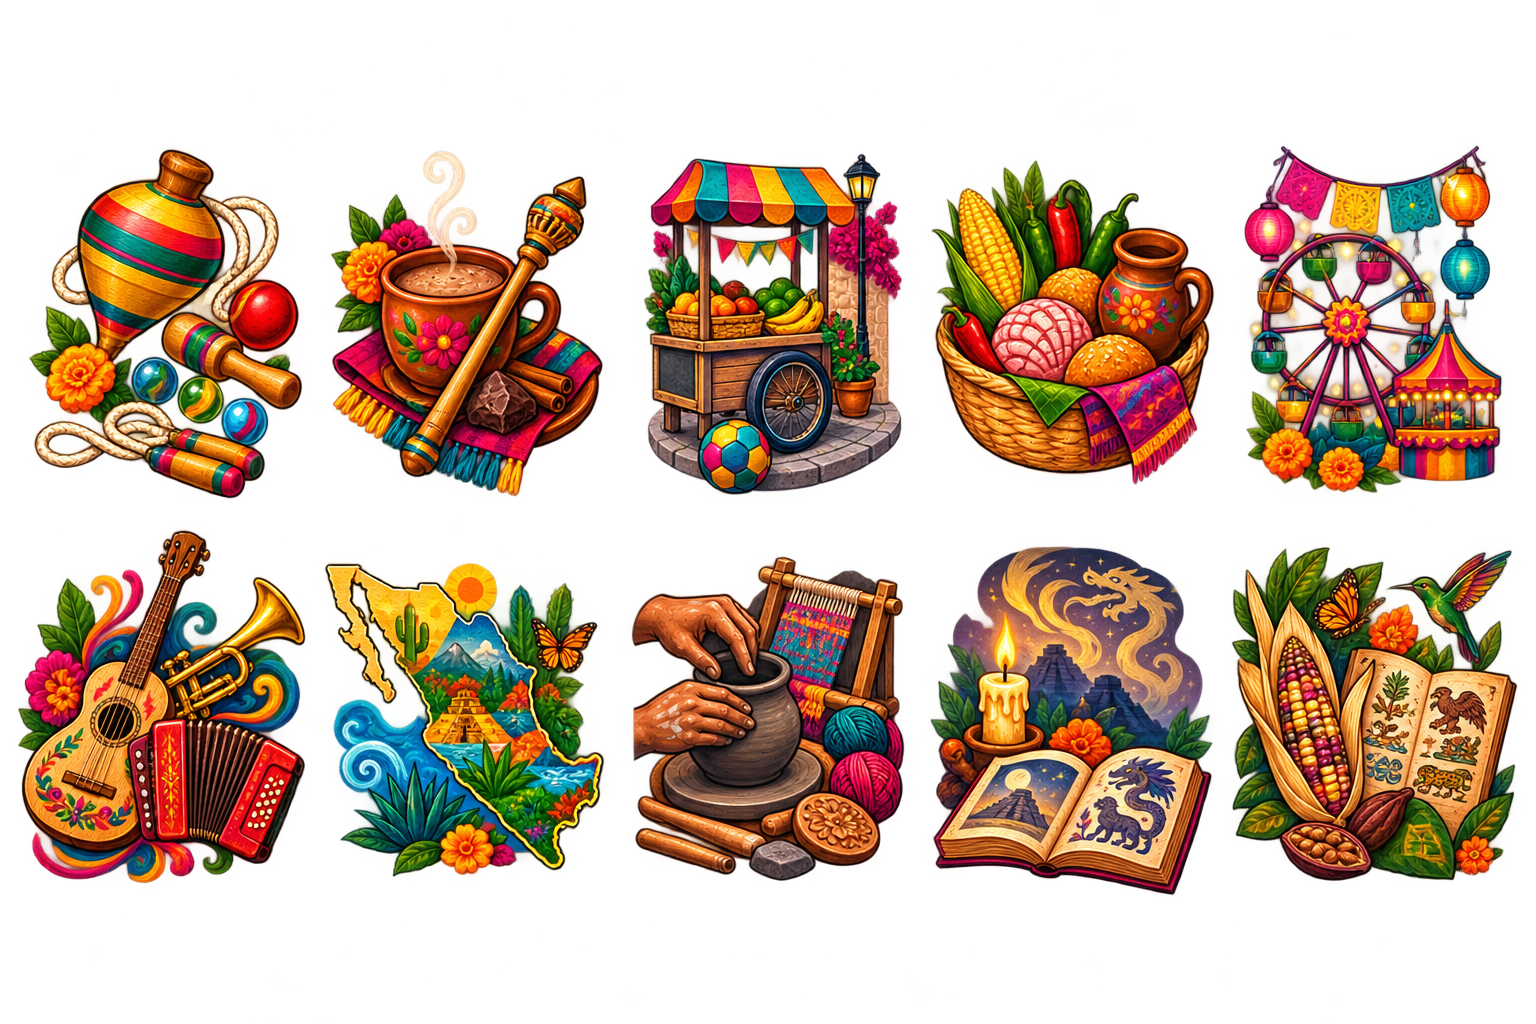
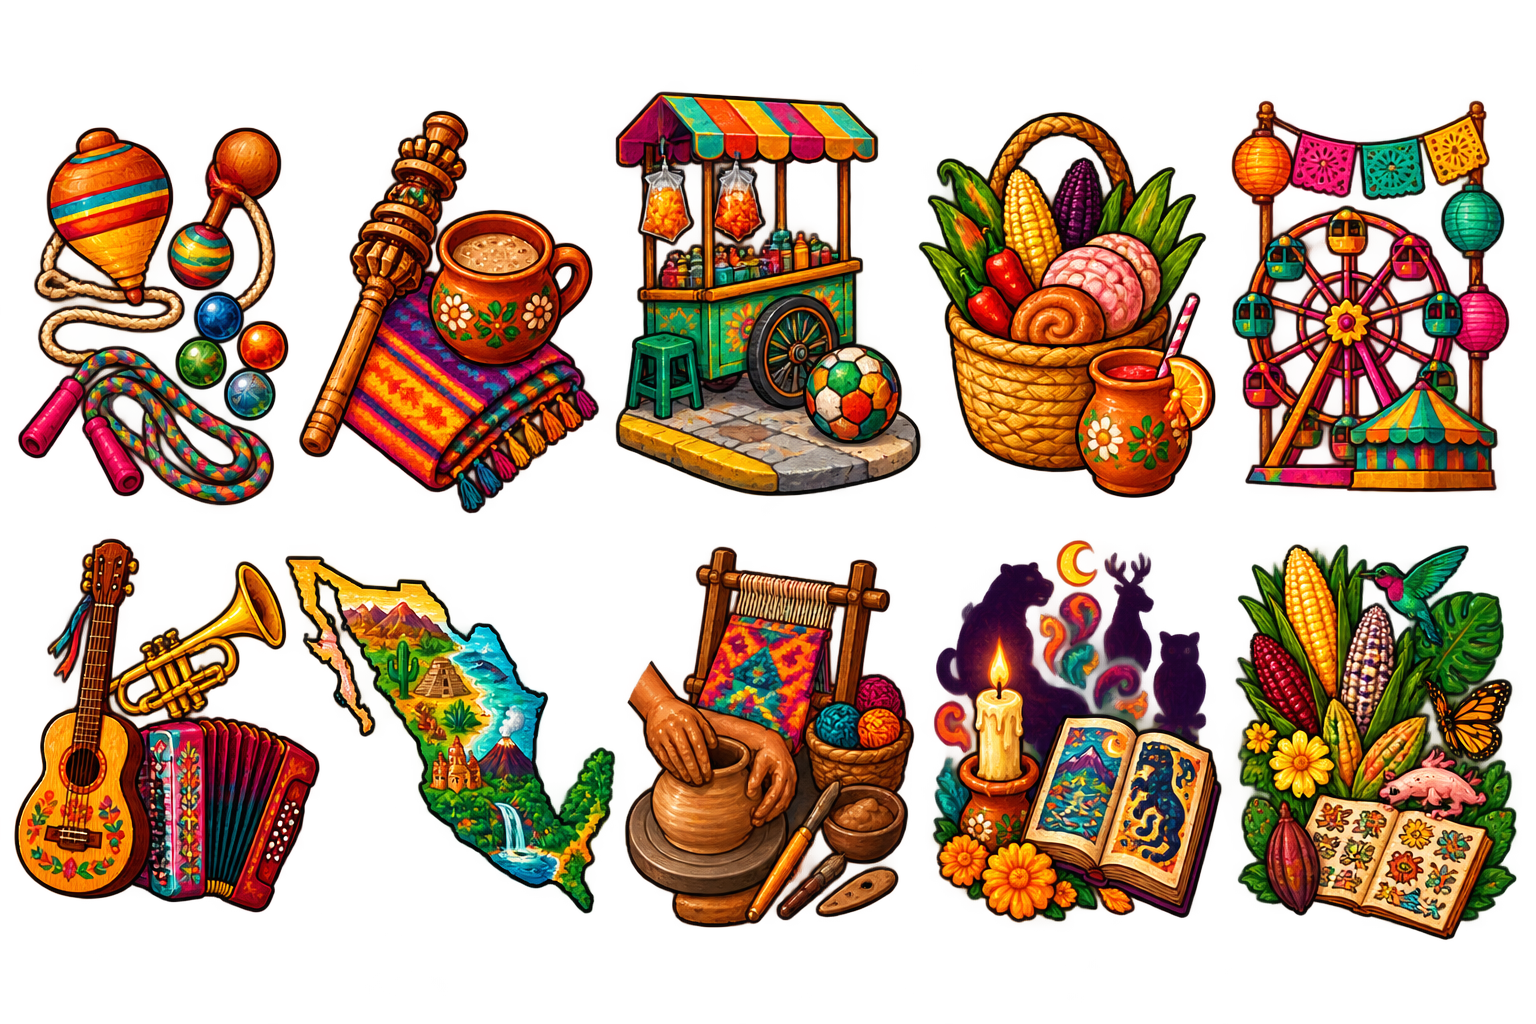
fix: use transparent cultural path atlas

diff --git a/docs/reports/cultural-icons-preview.html b/docs/reports/cultural-icons-preview.html
@@ -1,0 +1,48 @@
+<!doctype html>
+<html lang="es">
+<meta charset="utf-8">
+<meta name="viewport" content="width=device-width,initial-scale=1">
+<title>QA · Atlas culturales</title>
+<style>
+  * { box-sizing: border-box; }
+  body { margin: 0; padding: 24px; background: #25150e; color: #fff4dc; font: 14px system-ui, sans-serif; }
+  h1 { margin: 0 0 6px; font-size: 22px; }
+  p { margin: 0 0 20px; color: #dfc6a6; }
+  main { display: flex; align-items: flex-start; gap: 24px; flex-wrap: wrap; }
+  .phone { width: var(--viewport); padding: 14px; border: 2px solid #6e462d; border-radius: 24px; background: #fff0d2; color: #542e1b; }
+  .label { margin-bottom: 10px; font-weight: 800; }
+  .cards { display: grid; grid-template-columns: repeat(3, 1fr); gap: 8px; }
+  .card { min-width: 0; padding: 8px 4px; border: 1px solid #d5a977; border-radius: 13px; background: #fff9ea; text-align: center; font-size: 10px; font-weight: 750; }
+  .crop { margin: 0 auto 6px; overflow: hidden; background-color: #f1ddbd; background-repeat: no-repeat; }
+  .collection { width: 51px; height: 64px; border-radius: 9px; background-image: url('../../assets/images/cultural/collections-atlas.png'); background-size: 500% 400%; background-position: var(--x) var(--y); }
+  .banner { display: flex; align-items: center; gap: 9px; margin-top: 10px; padding: 10px; border-radius: 14px; background: #2a9d8f; color: white; }
+  .path { flex: 0 0 auto; width: 35px; height: 58px; margin: 0; border-radius: 8px; background-image: url('../../assets/images/cultural/paths-atlas.png'); background-size: 500% 200%; background-position: var(--x) var(--y); }
+  .banner strong { display: block; font-size: 11px; letter-spacing: .5px; }
+  .banner small { display: block; margin-top: 2px; color: #e6fffa; font-size: 9px; }
+  .checker { background-color: #eee; background-image: linear-gradient(45deg,#ccc 25%,transparent 25%),linear-gradient(-45deg,#ccc 25%,transparent 25%),linear-gradient(45deg,transparent 75%,#ccc 75%),linear-gradient(-45deg,transparent 75%,#ccc 75%); background-size: 12px 12px; background-position: 0 0,0 6px,6px -6px,-6px 0; }
+</style>
+<h1>Recortes culturales · evidencia responsive</h1>
+<p>Simulación geométrica del componente, no captura de Expo. Colecciones 0.8:1; caminos 0.6:1.</p>
+<main>
+  <section class="phone" style="--viewport:320px">
+    <div class="label">Viewport 320 px</div>
+    <div class="cards">
+      <div class="card"><div class="crop collection checker" style="--x:0%;--y:0%"></div>Juegos</div>
+      <div class="card"><div class="crop collection checker" style="--x:50%;--y:33.333%"></div>Música</div>
+      <div class="card"><div class="crop collection checker" style="--x:75%;--y:100%"></div>México digital</div>
+    </div>
+    <div class="banner"><div class="crop path checker" style="--x:0%;--y:0%"></div><div><strong>PATIO Y RECREO</strong><small>Juegos, escuela y recuerdos</small></div></div>
+    <div class="banner"><div class="crop path checker" style="--x:100%;--y:100%"></div><div><strong>MÉXICO PROFUNDO</strong><small>Lenguas, raíces y diversidad</small></div></div>
+  </section>
+  <section class="phone" style="--viewport:390px">
+    <div class="label">Viewport 390 px</div>
+    <div class="cards">
+      <div class="card"><div class="crop collection checker" style="--x:0%;--y:0%"></div>Juegos</div>
+      <div class="card"><div class="crop collection checker" style="--x:50%;--y:33.333%"></div>Música</div>
+      <div class="card"><div class="crop collection checker" style="--x:75%;--y:100%"></div>México digital</div>
+    </div>
+    <div class="banner"><div class="crop path checker" style="--x:0%;--y:0%"></div><div><strong>PATIO Y RECREO</strong><small>Juegos, escuela y recuerdos</small></div></div>
+    <div class="banner"><div class="crop path checker" style="--x:100%;--y:100%"></div><div><strong>MÉXICO PROFUNDO</strong><small>Lenguas, raíces y diversidad</small></div></div>
+  </section>
+</main>
+</html>

diff --git a/docs/reports/icon-inventory.md b/docs/reports/icon-inventory.md
@@ -1,7 +1,7 @@
 # Inventario de iconografía cultural
 
-**Alcance:** 10 caminos, 19 colecciones y 20 lugares de la taxonomía `México vivido`.  
-**Implementación final:** dos atlas aprobados cubren las 29 superficies publicadas: `assets/images/cultural/collections-atlas.png` (1254×1254, cuadrícula 5×4, 19 celdas utilizadas, transparencia real) y `assets/images/cultural/paths-atlas.png` (1536×1024, cuadrícula 5×2, 10 celdas). El atlas de caminos conserva su fondo atmosférico por celda; la interfaz no depende de transparencia en él.  
+**Alcance:** 10 caminos, 19 colecciones y 20 lugares de la taxonomía `México vivido`.
+**Implementación final:** dos atlas transparentes cubren las 29 superficies publicadas: `assets/images/cultural/collections-atlas.png` (1254×1254, cuadrícula 5×4, 19 celdas utilizadas, alfa 0 en las esquinas transparentes) y `assets/images/cultural/paths-atlas.png` (1536×1024, cuadrícula 5×2, 10 celdas, alfa 0 en las cuatro esquinas).
 **Render actual:** `ColeccionScreen` muestra el atlas en tarjetas canónicas y cabeceras de modal. `MapScreen` muestra el atlas únicamente para caminos culturales v2; el banner neutral heredado conserva emoji. Los lugares siguen usando emoji porque no tienen ni necesitan bitmaps.
 
 ## Criterio de decisión
@@ -9,13 +9,13 @@
 - **reuse:** el objeto principal comunica directamente la colección nueva y la imagen no contiene texto/marca problemática.
 - **generate:** falta el concepto o el recurso existente es parcial, genérico, equívoco o contiene texto/marca.
 - **emoji-only:** la superficie actual no renderiza bitmap. Se conserva un emoji canónico y no se genera una imagen que la app no utilizará.
-- Los bitmaps nuevos deben ser 1024×1024, WebP o PNG, composición legible a 72–96 px, sin texto ni marcas. El diseño aprobado pide fondo transparente; los recursos actuales no lo cumplen. Si se exige consistencia total, los nueve reutilizables deben regenerarse en una fase posterior.
+- Los atlas finales son PNG RGBA transparentes, sin texto ni marcas, y sus sujetos conservan lectura clara a tamaño de tarjeta.
 
 ## Caminos (10)
 
 Las diez ilustraciones quedaron reunidas, en el orden de la taxonomía, dentro de `paths-atlas.png`. La columna/fila se resuelve mediante mapping estático y el emoji sigue siendo fallback.
 
-| ID / archivo propuesto | Emoji | Match actual | Acción | Sujeto del prompt |
+| ID / celda final | Emoji | Match inicial | Decisión inicial | Sujeto usado para generar el atlas |
 |---|---:|---|---|---|
 | `paths/patio-recreo.webp` | 🪀 | no asset | generate | trompo de madera, balero y dos canicas, energía de recreo |
 | `paths/casa-abuela.webp` | 🏡 | no asset | generate | molinillo de madera junto a taza de chocolate y mantel tejido |
@@ -30,7 +30,7 @@ Las diez ilustraciones quedaron reunidas, en el orden de la taxonomía, dentro d
 
 ## Colecciones (19)
 
-| ID / archivo final | Asset existente | Match | Acción | Nota o sujeto requerido |
+| ID / celda final | Asset legacy evaluado | Match inicial | Decisión inicial | Nota o sujeto usado |
 |---|---|---:|---|---|
 | `juegos-ninez.webp` | `juegos.webp` | sí | reuse | trompo y carta de lotería; buena lectura pequeña, aunque sin alpha |
 | `dulces-antojitos.webp` | ninguno | no | generate | mazapán sin marca, palanqueta, cocada y alegría en canastita |
@@ -103,3 +103,9 @@ El ciclo TDD se observó RED por ausencia de `culturalAssets.js` y GREEN despué
 - **29 celdas visuales publicadas:** 19 colecciones + 10 caminos.
 - **0 bitmaps de lugar:** los 20 lugares conservan emojis canónicos.
 - **Estilo aplicado:** ilustración popular mexicana cálida y táctil, composición legible en miniatura, objetos culturales concretos, sin texto, marcas, banderas decorativas ni sombrero/taco como símbolo universal.
+
+## Evidencia responsive
+
+`CulturalAtlasIcon` interpreta `size` como alto. A 58 px, un camino mide `58 × 0.6 = 34.8 px` de ancho; una colección de 64 px mide `64 × 0.8 = 51.2 px`. El atlas completo se escala a `size × rows` de alto y conserva `atlasAspect`, por lo que el recorte no deforma la imagen.
+
+`docs/reports/cultural-icons-preview.html` reproduce la misma geometría y posiciones CSS en marcos de 320 y 390 px. Es una previsualización aislada, no una captura de la app Expo.
